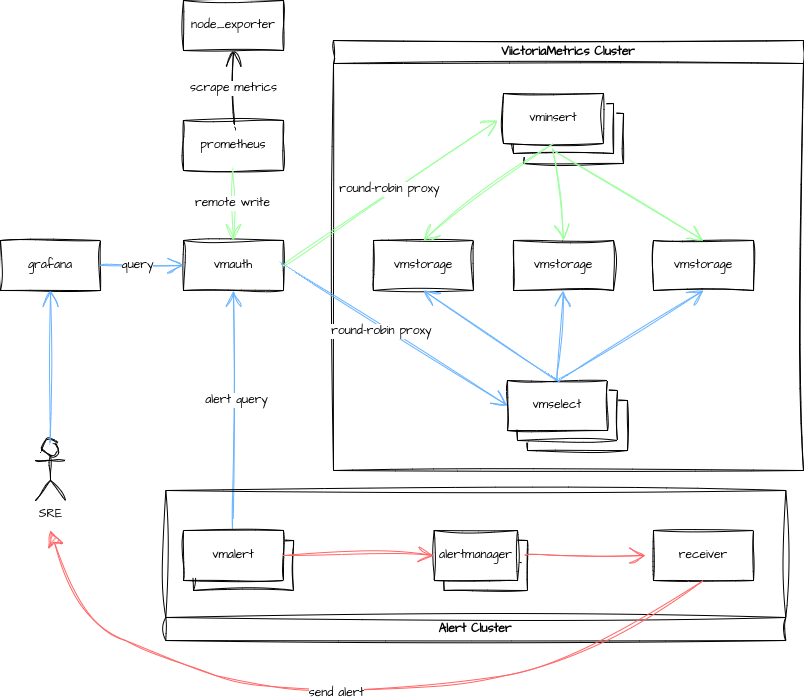
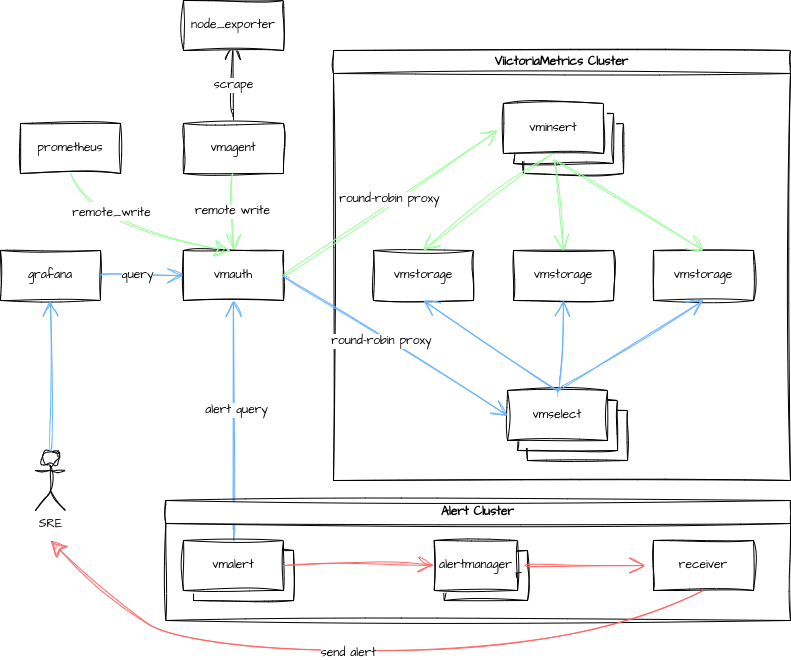
update image

diff --git a/README.md b/README.md
@@ -17,7 +17,7 @@ Vagrant project spin up a single virtual machine running:
 
 The versions of the above components that the VM is provisioned with are defined in the file `scripts/versions.sh`
 
-The following version combinations are known to work: -
+The following version combinations are known to work:
 
 - node_exporter 1.7.0
 - prometheus 2.16.0
@@ -40,6 +40,7 @@ The virtual machine will be running the following services:
 - vmselect * 3
 - vmauth * 1
 - vmalert * 2
+- vmagent * 1
 
 ## Getting Started
 
